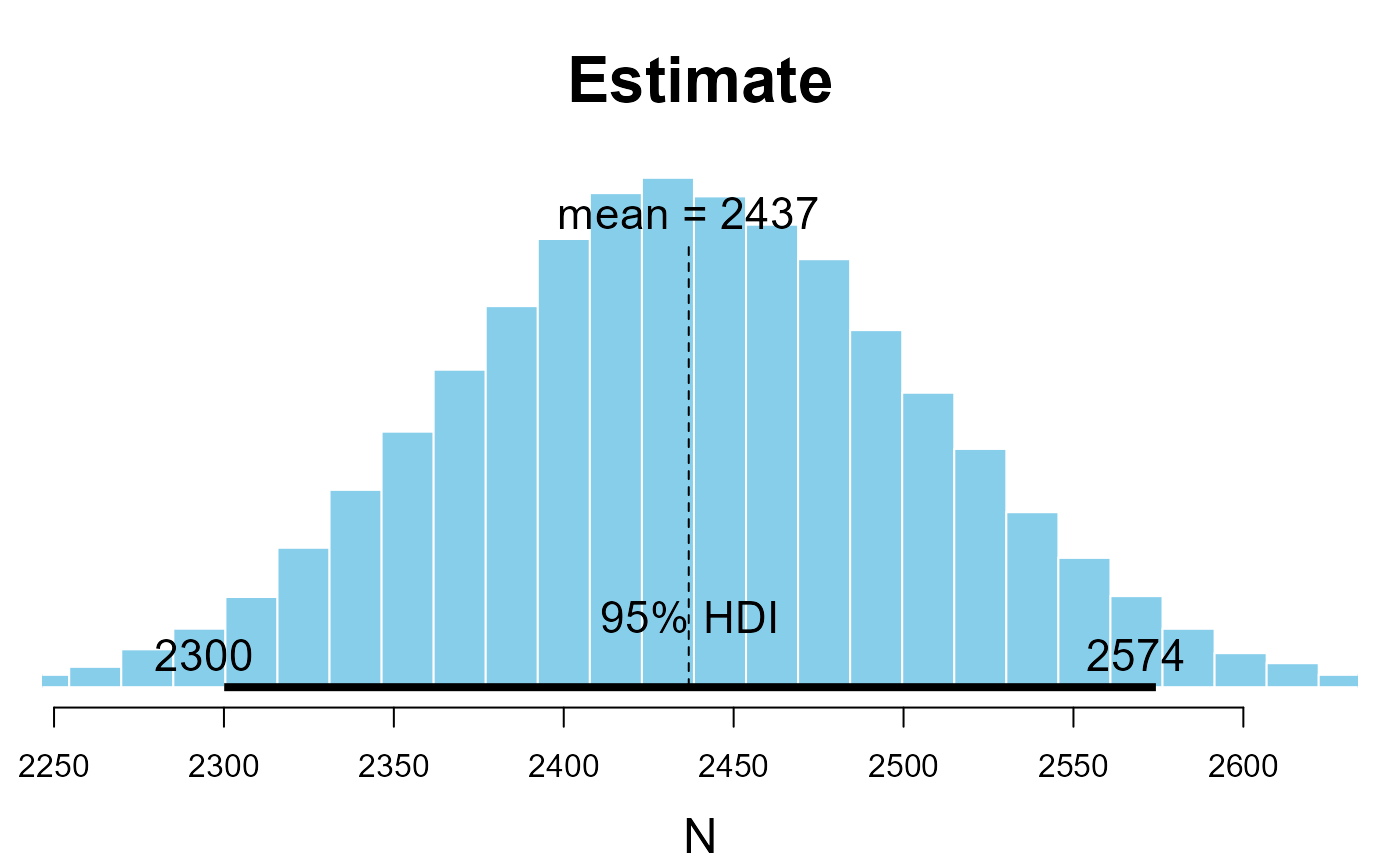
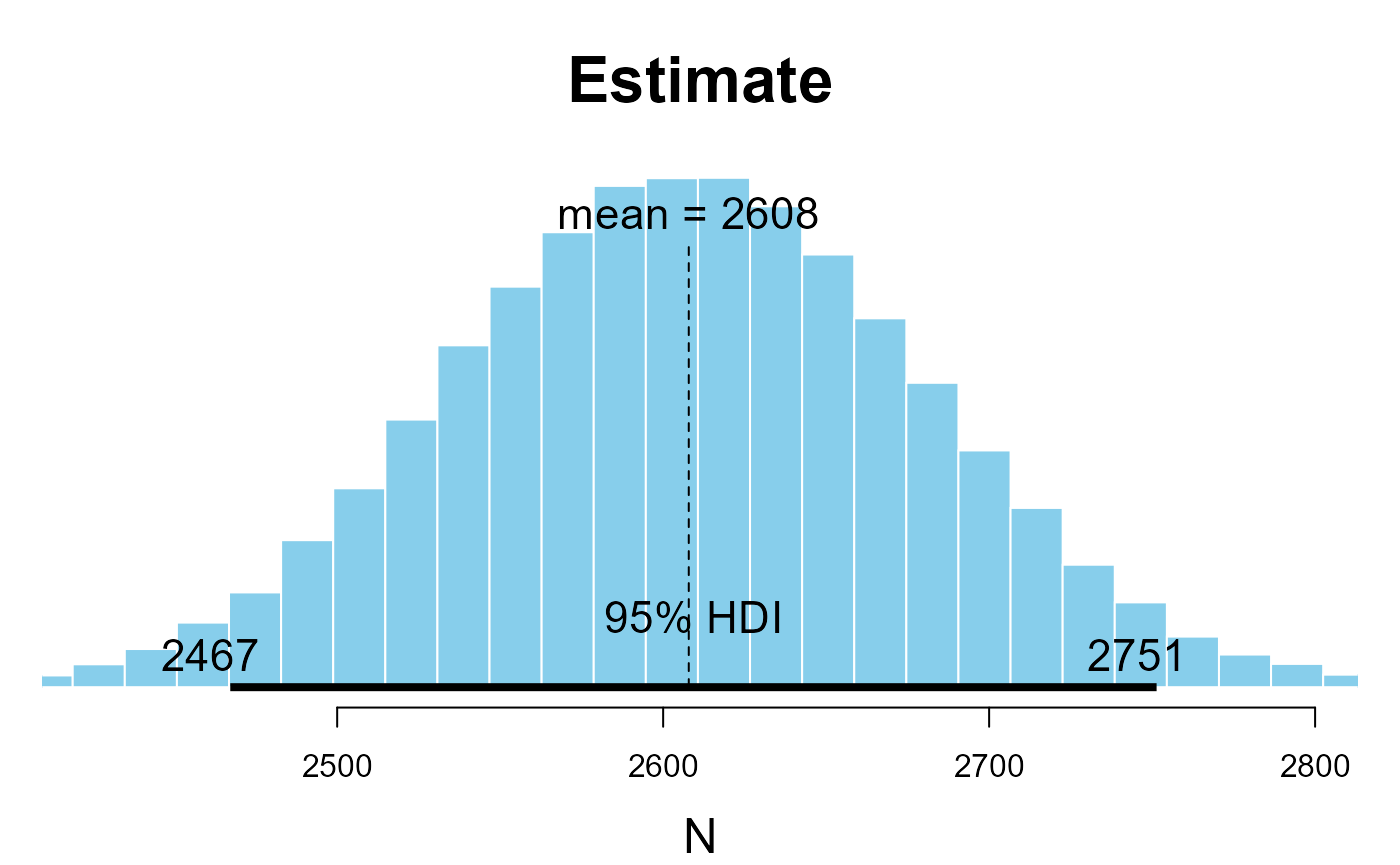
typo in pkgdown

diff --git a/docs/articles/Getting_raster_values_form_a_Digital_Elevation_Model.html b/docs/articles/Getting_raster_values_form_a_Digital_Elevation_Model.html
@@ -108,8 +108,8 @@
 <span class="va">df</span> <span class="op">%&gt;%</span> 
   <span class="fu"><a href="https://rdrr.io/r/utils/head.html">head</a></span><span class="op">(</span><span class="op">)</span> <span class="op">%&gt;%</span>
   <span class="fu">DT</span><span class="fu">::</span><span class="fu"><a href="https://rdrr.io/pkg/DT/man/datatable.html">datatable</a></span><span class="op">(</span>options<span class="op">=</span><span class="fu"><a href="https://rdrr.io/r/base/list.html">list</a></span><span class="op">(</span>scrollX <span class="op">=</span> <span class="cn">TRUE</span><span class="op">)</span><span class="op">)</span></code></pre></div>
-<div id="htmlwidget-240f98f12da5ce3106db" style="width:100%;height:auto;" class="datatables html-widget"></div>
-<script type="application/json" data-for="htmlwidget-240f98f12da5ce3106db">{"x":{"filter":"none","data":[["1","2","3","4","5","6"],["DSC00001.JPG","DSC00002.JPG","DSC00003.JPG","DSC00004.JPG","DSC00005.JPG","DSC00006.JPG"],["2020-07-16T00:00:00Z","2020-07-16T00:00:00Z","2020-07-16T00:00:00Z","2020-07-16T00:00:00Z","2020-07-16T00:00:00Z","2020-07-16T00:00:00Z"],["1899-12-31T02:34:47Z","1899-12-31T02:34:50Z","1899-12-31T02:34:54Z","1899-12-31T02:37:42Z","1899-12-31T02:37:52Z","1899-12-31T02:38:02Z"],[45.759441,45.759441,45.759441,45.760193,45.760773,45.759892],[61.212215,61.212215,61.212219,61.213963,61.216152,61.218388],[53.7,53.8,53.9,86.7,141.4,148.3],[0.4,0.5,0.2,37.9,91.5,95.6],[0,0,0,33,87.7,94.6],["-0.700","-1.600","0.100","-4.700","22.400","21.100"],["4.000","2.800","1.300","9.200","3.300","4.000"],["75.000","75.000","76.000","74.000","85.000","162.000"],["76.200","75.600","75.700","76.900","74.600","162.300"],["0.000","0.000","0.000","82.800","86.040","94.320"],["0.000","0.000","0.000","66.600","62.280","99.000"],["left","left","left","left","left","left"],[null,null,null,null,null,null],[null,null,null,null,null,null]],"container":"<table class=\"display\">\n  <thead>\n    <tr>\n      <th> <\/th>\n      <th>Photo No.<\/th>\n      <th>Date<\/th>\n      <th>Time<\/th>\n      <th>Lat_dec<\/th>\n      <th>Lon_dec<\/th>\n      <th>Alt above the Sea level<\/th>\n      <th>Alt above launch point<\/th>\n      <th>Alt above ground<\/th>\n      <th>Banking angle<\/th>\n      <th>Tangage<\/th>\n      <th>Azimuth<\/th>\n      <th>GPS Course<\/th>\n      <th>Speed<\/th>\n      <th>GPS Speed<\/th>\n      <th>Camera position<\/th>\n      <th>Species<\/th>\n      <th>Number<\/th>\n    <\/tr>\n  <\/thead>\n<\/table>","options":{"scrollX":true,"columnDefs":[{"className":"dt-right","targets":[4,5,6,7,8]},{"orderable":false,"targets":0}],"order":[],"autoWidth":false,"orderClasses":false}},"evals":[],"jsHooks":[]}</script><p>We need the dataframe to be formatted as an R data.frame in order to manipulate it later on.</p>
+<div id="htmlwidget-ff9386e611a872c4ad25" style="width:100%;height:auto;" class="datatables html-widget"></div>
+<script type="application/json" data-for="htmlwidget-ff9386e611a872c4ad25">{"x":{"filter":"none","data":[["1","2","3","4","5","6"],["DSC00001.JPG","DSC00002.JPG","DSC00003.JPG","DSC00004.JPG","DSC00005.JPG","DSC00006.JPG"],["2020-07-16T00:00:00Z","2020-07-16T00:00:00Z","2020-07-16T00:00:00Z","2020-07-16T00:00:00Z","2020-07-16T00:00:00Z","2020-07-16T00:00:00Z"],["1899-12-31T02:34:47Z","1899-12-31T02:34:50Z","1899-12-31T02:34:54Z","1899-12-31T02:37:42Z","1899-12-31T02:37:52Z","1899-12-31T02:38:02Z"],[45.759441,45.759441,45.759441,45.760193,45.760773,45.759892],[61.212215,61.212215,61.212219,61.213963,61.216152,61.218388],[53.7,53.8,53.9,86.7,141.4,148.3],[0.4,0.5,0.2,37.9,91.5,95.6],[0,0,0,33,87.7,94.6],["-0.700","-1.600","0.100","-4.700","22.400","21.100"],["4.000","2.800","1.300","9.200","3.300","4.000"],["75.000","75.000","76.000","74.000","85.000","162.000"],["76.200","75.600","75.700","76.900","74.600","162.300"],["0.000","0.000","0.000","82.800","86.040","94.320"],["0.000","0.000","0.000","66.600","62.280","99.000"],["left","left","left","left","left","left"],[null,null,null,null,null,null],[null,null,null,null,null,null]],"container":"<table class=\"display\">\n  <thead>\n    <tr>\n      <th> <\/th>\n      <th>Photo No.<\/th>\n      <th>Date<\/th>\n      <th>Time<\/th>\n      <th>Lat_dec<\/th>\n      <th>Lon_dec<\/th>\n      <th>Alt above the Sea level<\/th>\n      <th>Alt above launch point<\/th>\n      <th>Alt above ground<\/th>\n      <th>Banking angle<\/th>\n      <th>Tangage<\/th>\n      <th>Azimuth<\/th>\n      <th>GPS Course<\/th>\n      <th>Speed<\/th>\n      <th>GPS Speed<\/th>\n      <th>Camera position<\/th>\n      <th>Species<\/th>\n      <th>Number<\/th>\n    <\/tr>\n  <\/thead>\n<\/table>","options":{"scrollX":true,"columnDefs":[{"className":"dt-right","targets":[4,5,6,7,8]},{"orderable":false,"targets":0}],"order":[],"autoWidth":false,"orderClasses":false}},"evals":[],"jsHooks":[]}</script><p>We need the dataframe to be formatted as an R data.frame in order to manipulate it later on.</p>
 <div class="sourceCode" id="cb3"><pre class="downlit sourceCode r">
 <code class="sourceCode R"><span class="va">df</span> <span class="op">&lt;-</span> <span class="fu"><a href="https://rdrr.io/r/base/as.data.frame.html">as.data.frame</a></span><span class="op">(</span><span class="va">df</span><span class="op">)</span></code></pre></div>
 </div>
@@ -152,8 +152,8 @@
 <span class="va">df_spdf</span> <span class="op">%&gt;%</span> 
   <span class="fu"><a href="https://rdrr.io/r/utils/head.html">head</a></span><span class="op">(</span><span class="op">)</span> <span class="op">%&gt;%</span> 
   <span class="fu">DT</span><span class="fu">::</span><span class="fu"><a href="https://rdrr.io/pkg/DT/man/datatable.html">datatable</a></span><span class="op">(</span>options<span class="op">=</span><span class="fu"><a href="https://rdrr.io/r/base/list.html">list</a></span><span class="op">(</span>scrollX <span class="op">=</span> <span class="cn">TRUE</span><span class="op">)</span><span class="op">)</span></code></pre></div>
-<div id="htmlwidget-8204d5515473e04d6028" style="width:100%;height:auto;" class="datatables html-widget"></div>
-<script type="application/json" data-for="htmlwidget-8204d5515473e04d6028">{"x":{"filter":"none","data":[["1","2","3","4","5","6"],["DSC00001.JPG","DSC00002.JPG","DSC00003.JPG","DSC00004.JPG","DSC00005.JPG","DSC00006.JPG"],["2020-07-16T00:00:00Z","2020-07-16T00:00:00Z","2020-07-16T00:00:00Z","2020-07-16T00:00:00Z","2020-07-16T00:00:00Z","2020-07-16T00:00:00Z"],["1899-12-31T02:34:47Z","1899-12-31T02:34:50Z","1899-12-31T02:34:54Z","1899-12-31T02:37:42Z","1899-12-31T02:37:52Z","1899-12-31T02:38:02Z"],[45.759441,45.759441,45.759441,45.760193,45.760773,45.759892],[61.212215,61.212215,61.212219,61.213963,61.216152,61.218388],[53.7,53.8,53.9,86.7,141.4,148.3],[0.4,0.5,0.2,37.9,91.5,95.6],[0,0,0,33,87.7,94.6],["-0.700","-1.600","0.100","-4.700","22.400","21.100"],["4.000","2.800","1.300","9.200","3.300","4.000"],["75.000","75.000","76.000","74.000","85.000","162.000"],["76.200","75.600","75.700","76.900","74.600","162.300"],["0.000","0.000","0.000","82.800","86.040","94.320"],["0.000","0.000","0.000","66.600","62.280","99.000"],["left","left","left","left","left","left"],[null,null,null,null,null,null],[null,null,null,null,null,null],[62,62,62,64,61,57]],"container":"<table class=\"display\">\n  <thead>\n    <tr>\n      <th> <\/th>\n      <th>Photo No.<\/th>\n      <th>Date<\/th>\n      <th>Time<\/th>\n      <th>Lat_dec<\/th>\n      <th>Lon_dec<\/th>\n      <th>Alt above the Sea level<\/th>\n      <th>Alt above launch point<\/th>\n      <th>Alt above ground<\/th>\n      <th>Banking angle<\/th>\n      <th>Tangage<\/th>\n      <th>Azimuth<\/th>\n      <th>GPS Course<\/th>\n      <th>Speed<\/th>\n      <th>GPS Speed<\/th>\n      <th>Camera position<\/th>\n      <th>Species<\/th>\n      <th>Number<\/th>\n      <th>DEM_ex<\/th>\n    <\/tr>\n  <\/thead>\n<\/table>","options":{"scrollX":true,"columnDefs":[{"className":"dt-right","targets":[4,5,6,7,8,18]},{"orderable":false,"targets":0}],"order":[],"autoWidth":false,"orderClasses":false}},"evals":[],"jsHooks":[]}</script><div id="export-data-if-needed" class="section level3">
+<div id="htmlwidget-1b5683c44654feeb5cec" style="width:100%;height:auto;" class="datatables html-widget"></div>
+<script type="application/json" data-for="htmlwidget-1b5683c44654feeb5cec">{"x":{"filter":"none","data":[["1","2","3","4","5","6"],["DSC00001.JPG","DSC00002.JPG","DSC00003.JPG","DSC00004.JPG","DSC00005.JPG","DSC00006.JPG"],["2020-07-16T00:00:00Z","2020-07-16T00:00:00Z","2020-07-16T00:00:00Z","2020-07-16T00:00:00Z","2020-07-16T00:00:00Z","2020-07-16T00:00:00Z"],["1899-12-31T02:34:47Z","1899-12-31T02:34:50Z","1899-12-31T02:34:54Z","1899-12-31T02:37:42Z","1899-12-31T02:37:52Z","1899-12-31T02:38:02Z"],[45.759441,45.759441,45.759441,45.760193,45.760773,45.759892],[61.212215,61.212215,61.212219,61.213963,61.216152,61.218388],[53.7,53.8,53.9,86.7,141.4,148.3],[0.4,0.5,0.2,37.9,91.5,95.6],[0,0,0,33,87.7,94.6],["-0.700","-1.600","0.100","-4.700","22.400","21.100"],["4.000","2.800","1.300","9.200","3.300","4.000"],["75.000","75.000","76.000","74.000","85.000","162.000"],["76.200","75.600","75.700","76.900","74.600","162.300"],["0.000","0.000","0.000","82.800","86.040","94.320"],["0.000","0.000","0.000","66.600","62.280","99.000"],["left","left","left","left","left","left"],[null,null,null,null,null,null],[null,null,null,null,null,null],[62,62,62,64,61,57]],"container":"<table class=\"display\">\n  <thead>\n    <tr>\n      <th> <\/th>\n      <th>Photo No.<\/th>\n      <th>Date<\/th>\n      <th>Time<\/th>\n      <th>Lat_dec<\/th>\n      <th>Lon_dec<\/th>\n      <th>Alt above the Sea level<\/th>\n      <th>Alt above launch point<\/th>\n      <th>Alt above ground<\/th>\n      <th>Banking angle<\/th>\n      <th>Tangage<\/th>\n      <th>Azimuth<\/th>\n      <th>GPS Course<\/th>\n      <th>Speed<\/th>\n      <th>GPS Speed<\/th>\n      <th>Camera position<\/th>\n      <th>Species<\/th>\n      <th>Number<\/th>\n      <th>DEM_ex<\/th>\n    <\/tr>\n  <\/thead>\n<\/table>","options":{"scrollX":true,"columnDefs":[{"className":"dt-right","targets":[4,5,6,7,8,18]},{"orderable":false,"targets":0}],"order":[],"autoWidth":false,"orderClasses":false}},"evals":[],"jsHooks":[]}</script><div id="export-data-if-needed" class="section level3">
 <h3 class="hasAnchor">
 <a href="#export-data-if-needed" class="anchor"></a>Export data if needed</h3>
 <div class="sourceCode" id="cb9"><pre class="downlit sourceCode r">
@@ -161,8 +161,8 @@
 <span class="va">df_new</span> <span class="op">%&gt;%</span> 
   <span class="fu"><a href="https://rdrr.io/r/utils/head.html">head</a></span><span class="op">(</span><span class="op">)</span> <span class="op">%&gt;%</span> 
   <span class="fu">DT</span><span class="fu">::</span><span class="fu"><a href="https://rdrr.io/pkg/DT/man/datatable.html">datatable</a></span><span class="op">(</span>options<span class="op">=</span><span class="fu"><a href="https://rdrr.io/r/base/list.html">list</a></span><span class="op">(</span>scrollX <span class="op">=</span> <span class="cn">TRUE</span><span class="op">)</span><span class="op">)</span></code></pre></div>
-<div id="htmlwidget-0bd092796bc657082a64" style="width:100%;height:auto;" class="datatables html-widget"></div>
-<script type="application/json" data-for="htmlwidget-0bd092796bc657082a64">{"x":{"filter":"none","data":[["1","2","3","4","5","6"],["DSC00001.JPG","DSC00002.JPG","DSC00003.JPG","DSC00004.JPG","DSC00005.JPG","DSC00006.JPG"],["2020-07-16T00:00:00Z","2020-07-16T00:00:00Z","2020-07-16T00:00:00Z","2020-07-16T00:00:00Z","2020-07-16T00:00:00Z","2020-07-16T00:00:00Z"],["1899-12-31T02:34:47Z","1899-12-31T02:34:50Z","1899-12-31T02:34:54Z","1899-12-31T02:37:42Z","1899-12-31T02:37:52Z","1899-12-31T02:38:02Z"],[45.759441,45.759441,45.759441,45.760193,45.760773,45.759892],[61.212215,61.212215,61.212219,61.213963,61.216152,61.218388],[53.7,53.8,53.9,86.7,141.4,148.3],[0.4,0.5,0.2,37.9,91.5,95.6],[0,0,0,33,87.7,94.6],["-0.700","-1.600","0.100","-4.700","22.400","21.100"],["4.000","2.800","1.300","9.200","3.300","4.000"],["75.000","75.000","76.000","74.000","85.000","162.000"],["76.200","75.600","75.700","76.900","74.600","162.300"],["0.000","0.000","0.000","82.800","86.040","94.320"],["0.000","0.000","0.000","66.600","62.280","99.000"],["left","left","left","left","left","left"],[null,null,null,null,null,null],[null,null,null,null,null,null],[62,62,62,64,61,57],[61.212215,61.212215,61.212219,61.213963,61.216152,61.218388],[45.759441,45.759441,45.759441,45.760193,45.760773,45.759892]],"container":"<table class=\"display\">\n  <thead>\n    <tr>\n      <th> <\/th>\n      <th>Photo.No.<\/th>\n      <th>Date<\/th>\n      <th>Time<\/th>\n      <th>Lat_dec<\/th>\n      <th>Lon_dec<\/th>\n      <th>Alt.above.the.Sea.level<\/th>\n      <th>Alt.above.launch.point<\/th>\n      <th>Alt.above.ground<\/th>\n      <th>Banking.angle<\/th>\n      <th>Tangage<\/th>\n      <th>Azimuth<\/th>\n      <th>GPS.Course<\/th>\n      <th>Speed<\/th>\n      <th>GPS.Speed<\/th>\n      <th>Camera.position<\/th>\n      <th>Species<\/th>\n      <th>Number<\/th>\n      <th>DEM_ex<\/th>\n      <th>Lon_dec.1<\/th>\n      <th>Lat_dec.1<\/th>\n    <\/tr>\n  <\/thead>\n<\/table>","options":{"scrollX":true,"columnDefs":[{"className":"dt-right","targets":[4,5,6,7,8,18,19,20]},{"orderable":false,"targets":0}],"order":[],"autoWidth":false,"orderClasses":false}},"evals":[],"jsHooks":[]}</script>
+<div id="htmlwidget-6738dc5a704a8c3f90ef" style="width:100%;height:auto;" class="datatables html-widget"></div>
+<script type="application/json" data-for="htmlwidget-6738dc5a704a8c3f90ef">{"x":{"filter":"none","data":[["1","2","3","4","5","6"],["DSC00001.JPG","DSC00002.JPG","DSC00003.JPG","DSC00004.JPG","DSC00005.JPG","DSC00006.JPG"],["2020-07-16T00:00:00Z","2020-07-16T00:00:00Z","2020-07-16T00:00:00Z","2020-07-16T00:00:00Z","2020-07-16T00:00:00Z","2020-07-16T00:00:00Z"],["1899-12-31T02:34:47Z","1899-12-31T02:34:50Z","1899-12-31T02:34:54Z","1899-12-31T02:37:42Z","1899-12-31T02:37:52Z","1899-12-31T02:38:02Z"],[45.759441,45.759441,45.759441,45.760193,45.760773,45.759892],[61.212215,61.212215,61.212219,61.213963,61.216152,61.218388],[53.7,53.8,53.9,86.7,141.4,148.3],[0.4,0.5,0.2,37.9,91.5,95.6],[0,0,0,33,87.7,94.6],["-0.700","-1.600","0.100","-4.700","22.400","21.100"],["4.000","2.800","1.300","9.200","3.300","4.000"],["75.000","75.000","76.000","74.000","85.000","162.000"],["76.200","75.600","75.700","76.900","74.600","162.300"],["0.000","0.000","0.000","82.800","86.040","94.320"],["0.000","0.000","0.000","66.600","62.280","99.000"],["left","left","left","left","left","left"],[null,null,null,null,null,null],[null,null,null,null,null,null],[62,62,62,64,61,57],[61.212215,61.212215,61.212219,61.213963,61.216152,61.218388],[45.759441,45.759441,45.759441,45.760193,45.760773,45.759892]],"container":"<table class=\"display\">\n  <thead>\n    <tr>\n      <th> <\/th>\n      <th>Photo.No.<\/th>\n      <th>Date<\/th>\n      <th>Time<\/th>\n      <th>Lat_dec<\/th>\n      <th>Lon_dec<\/th>\n      <th>Alt.above.the.Sea.level<\/th>\n      <th>Alt.above.launch.point<\/th>\n      <th>Alt.above.ground<\/th>\n      <th>Banking.angle<\/th>\n      <th>Tangage<\/th>\n      <th>Azimuth<\/th>\n      <th>GPS.Course<\/th>\n      <th>Speed<\/th>\n      <th>GPS.Speed<\/th>\n      <th>Camera.position<\/th>\n      <th>Species<\/th>\n      <th>Number<\/th>\n      <th>DEM_ex<\/th>\n      <th>Lon_dec.1<\/th>\n      <th>Lat_dec.1<\/th>\n    <\/tr>\n  <\/thead>\n<\/table>","options":{"scrollX":true,"columnDefs":[{"className":"dt-right","targets":[4,5,6,7,8,18,19,20]},{"orderable":false,"targets":0}],"order":[],"autoWidth":false,"orderClasses":false}},"evals":[],"jsHooks":[]}</script>
 
 #write.csv(ds_new, "/XXX.csv")
 <div id="section" class="section level96">

diff --git a/docs/articles/working-with-the-kulan-package.html b/docs/articles/working-with-the-kulan-package.html
@@ -214,7 +214,7 @@
 <div class="sourceCode" id="cb9"><pre class="downlit sourceCode r">
 <code class="sourceCode R"><span class="fu"><a href="../reference/jolly2.html">jolly2</a></span><span class="op">(</span>species_count <span class="op">=</span> <span class="va">data</span><span class="op">$</span><span class="va">sp_count</span>, Transect_area <span class="op">=</span> <span class="va">data</span><span class="op">$</span><span class="va">Trans_area</span>,Z<span class="op">=</span><span class="fl">164</span><span class="op">*</span><span class="fl">5</span><span class="op">)</span>
 <span class="co">#&gt;   Estimate lower_CI upper_CI       SE mean.y     SD.y Coef.of.Var.y</span>
-<span class="co">#&gt; 1 2446.873 2121.892 2771.854 195.7256  11.93 12.96324      1.086608</span></code></pre></div>
+<span class="co">#&gt; 1 2649.646 2312.271  2987.02 203.1898  12.77 12.69841     0.9943938</span></code></pre></div>
 <p><strong>Run the n-mixture model</strong></p>
 <p>Finally, to run the n-mixture model you can use the run_kulan_model() function. See more details about this function using help().</p>
 <div class="sourceCode" id="cb10"><pre class="downlit sourceCode r">

diff --git a/docs/articles/Flight_summaries.html b/docs/articles/Flight_summaries.html
@@ -214,7 +214,7 @@
 </div>
 <div id="trapeze---drone-footprint-for-specific-altitude-example" class="section level2">
 <h2 class="hasAnchor">
-<a href="#trapeze---drone-footprint-for-specific-altitude-example" class="anchor"></a>5.2. Trapeze - drone footprint for specific altitude example</h2>
+<a href="#trapeze---drone-footprint-for-specific-altitude-example" class="anchor"></a>Trapeze - drone footprint for specific altitude example</h2>
 <div class="sourceCode" id="cb12"><pre class="downlit sourceCode r">
 <code class="sourceCode R"><span class="co">#####################################################################################################################</span>
 <span class="co"># Drone &amp; camera setup:</span>
